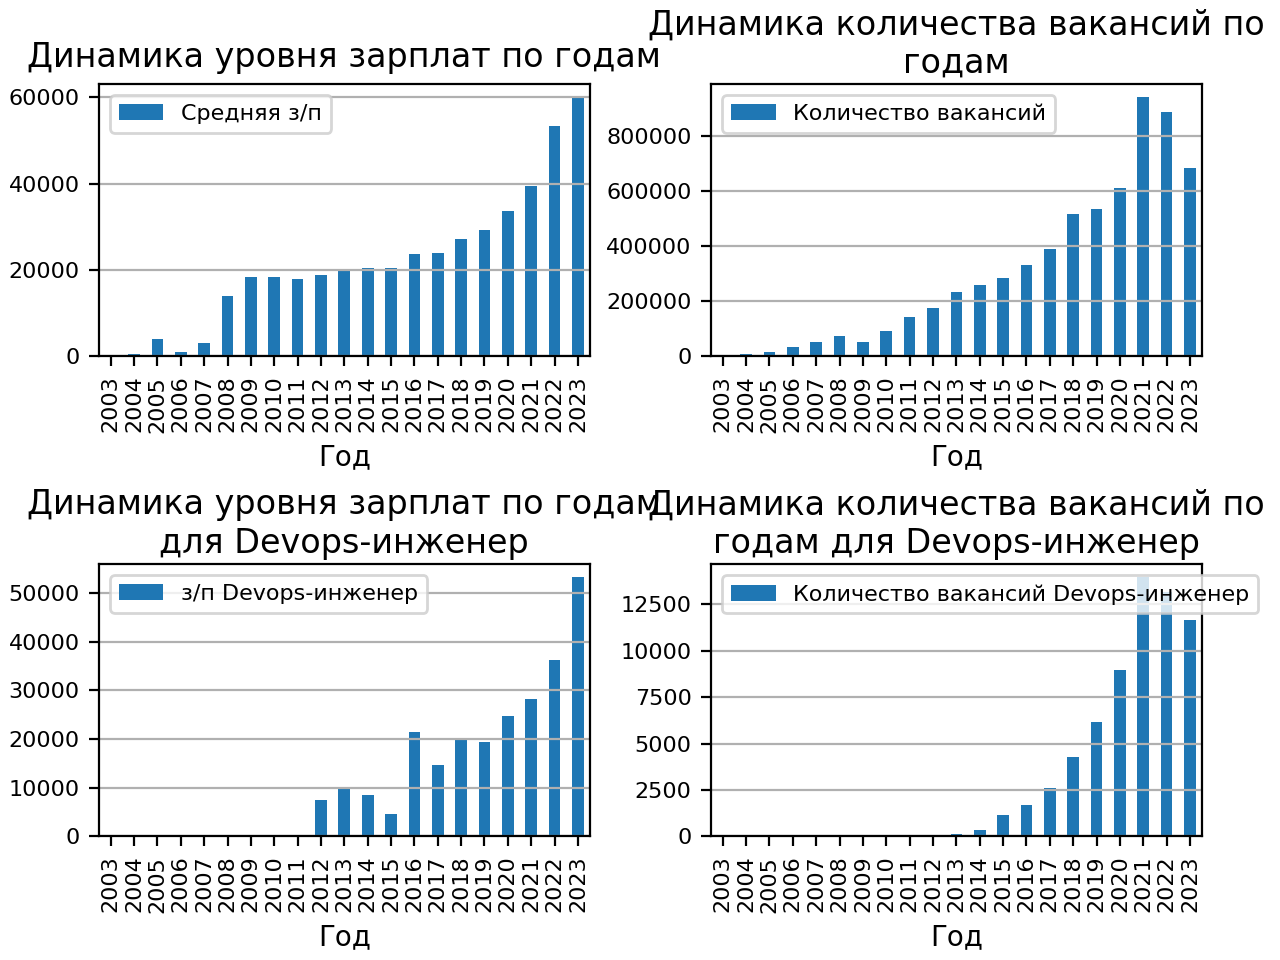
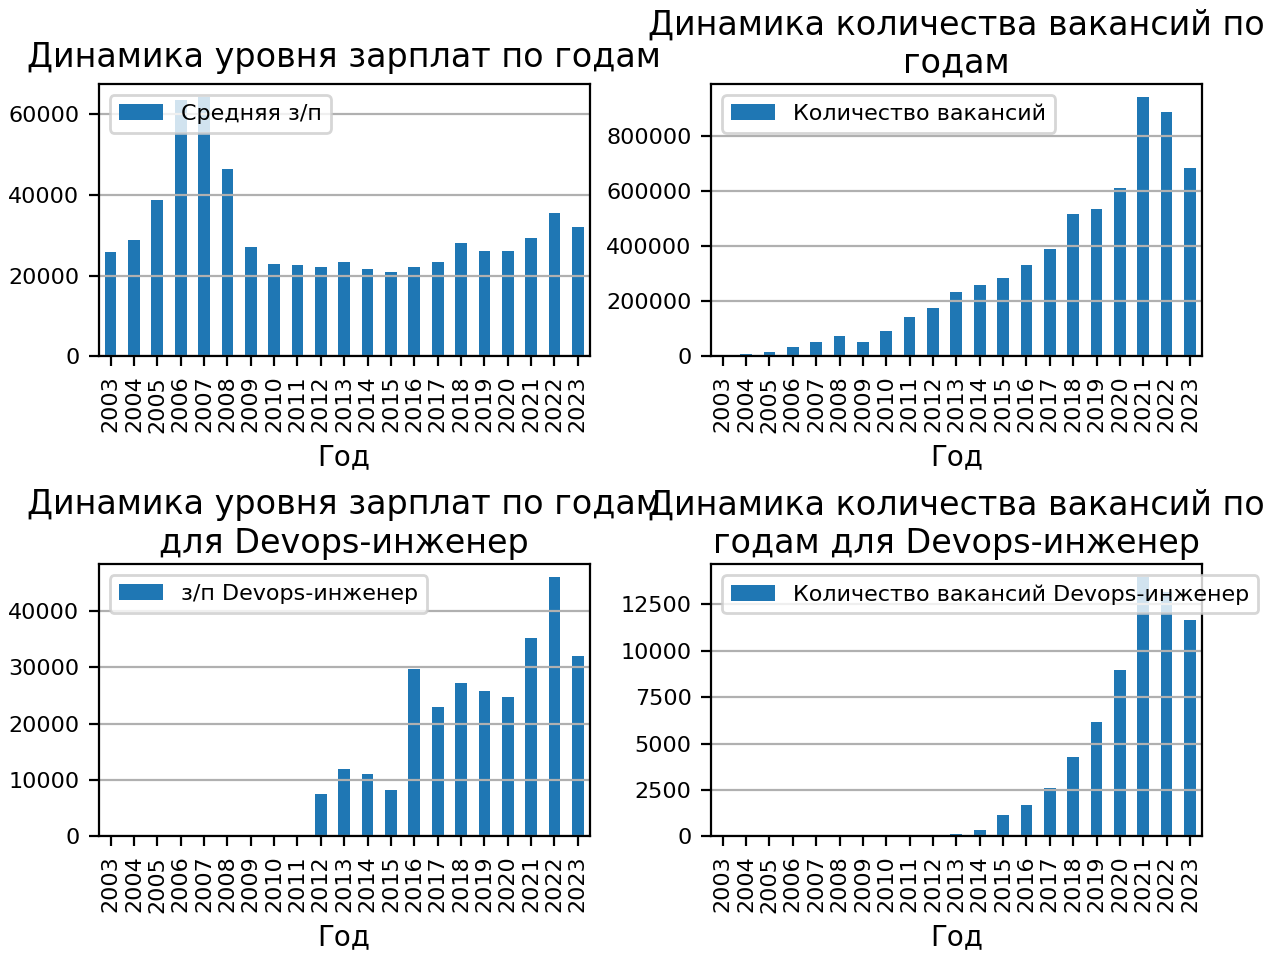
small script fixes

diff --git a/src/csv_data/script.py b/src/csv_data/script.py
@@ -50,12 +50,19 @@ def get_vacancies_dataframe(filename: str) -> pd.DataFrame:
         'год': 'string',
     }, skiprows=1)
 
+    end_time = time.time()
+    print(f"csv считан за {end_time - start_time}")
+
+    df['Средняя з/п'] = df[['от', 'до']].fillna(0).mean(axis=1).astype(int)
+    df['Средняя з/п'] = df[['Средняя з/п', 'валюта']].apply(
+        lambda row: currency_to_rub[row['валюта']] * row['Средняя з/п'] if row['валюта'] in currency_to_rub else 0,
+        axis=1)
+    df = df[df['Средняя з/п'] < 10000000]
     df['Год'] = df['Год'].apply(
         lambda published_at: int(re.sub(r'(\d{4})-(\d{2})-(\d{2})T(\d{2}):(\d{2}):([0-9+]{7})', r'\1', published_at)))
-    df['Средняя з/п'] = df[['от', 'до']].fillna(0).mean(axis=1).astype(int)
 
     end_time = time.time()
-    print(f"csv считан за {end_time-start_time}")
+    print(f"Конвертация данных: {end_time - start_time}")
 
     return df
 
@@ -109,7 +116,7 @@ def get_skills_stats(df: pd.DataFrame) -> dict:
 
 def create_report(filename: str, vacancy_name: str) -> [pd.DataFrame]:
     df = get_vacancies_dataframe(filename)
-    if vacancy_name not in vacancies_names:
+    if vacancy_name.lower() not in vacancies_names:
         filtered_df = df[df['название'].str.contains(vacancy_name, flags=re.IGNORECASE)]
     else:
         filtered_df = df[df['название'].str.contains("|".join(vacancies_names[vacancy_name]), flags=re.IGNORECASE)]
@@ -226,11 +233,25 @@ def parse_csv():
         file.write('{"data": %s}\n' % skills)
 
     end_time = time.time()
-    print(f"Время выполнения: {end_time-start_time}")
+    print(f"Время выполнения: {end_time - start_time}")
 
 
 vacancies_names = {
-    "Devops-инженер": ('devops', 'development operations')
+    "devops-инженер": ('devops', 'development operations')
+}
+
+# данные за 1 января 2023
+currency_to_rub = {
+    "AZN": 41.34,
+    "BYR": 25.70,
+    "EUR": 75.66,
+    "GEL": 21.74,
+    "KGS": 0.82,
+    "KZT": 0.15,
+    "RUR": 1,
+    "UAH": 1.91,
+    "USD": 70.34,
+    "UZS": 0.006
 }
 
 start_time = time.time()
